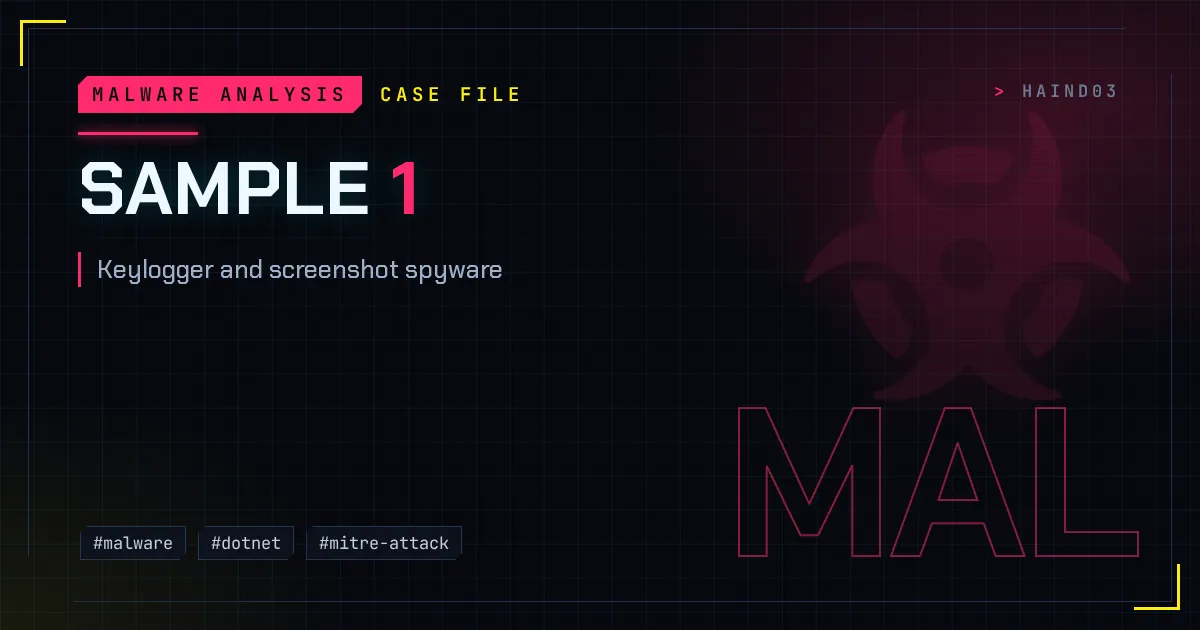
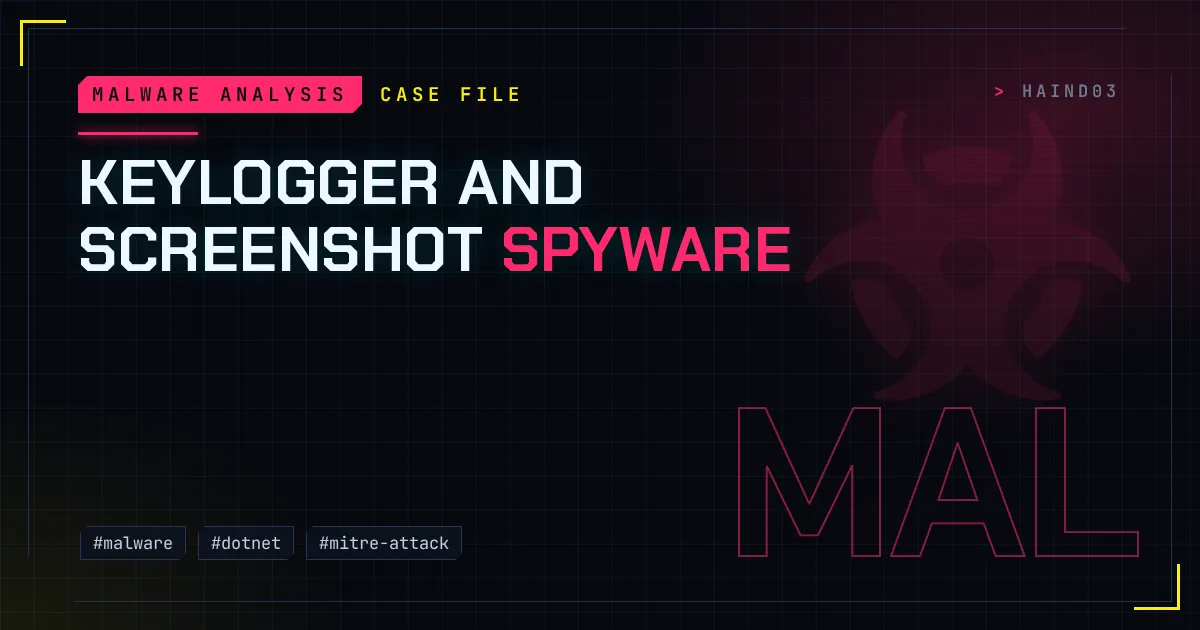
New tagline, rename Sample 1 post

Changed region(s): [[0.0617, 0.2413, 0.6783, 0.4524]]

diff --git a/assets/css/hacker.css b/assets/css/hacker.css
@@ -522,3 +522,6 @@ details.lab-solution[open] > :not(summary) { animation: cp-line .3s ease-out bot
 .categories .list-group-item a::after { content: ''; position: absolute; inset: 0; z-index: 1; }
 .categories .category-trigger { position: relative; z-index: 2; }
 .categories .card-header:hover, .categories .list-group-item:hover { background: rgb(0 240 255 / 6%) !important; cursor: pointer; }
+
+/* longer sidebar tagline: readable sentence case */
+#sidebar .site-subtitle { text-transform: none !important; letter-spacing: 0 !important; font-size: .74rem !important; line-height: 1.55; color: var(--cp-mute) !important; }

diff --git a/_posts/2023-09-13-mw-sample-1.md b/_posts/2023-09-13-mw-sample-1.md
@@ -1,8 +1,8 @@
 ---
-title: "Sample 1: keylogger and screenshot spyware"
+title: "Keylogger and screenshot spyware"
 image:
   path: /assets/img/covers/mw-sample-1.webp
-  alt: "Sample 1: keylogger and screenshot spyware"
+  alt: "Keylogger and screenshot spyware"
 date: 2023-09-13 10:55:00 +0700
 categories: ["Malware Analysis"]
 tags: [malware, dotnet, mitre-attack]
